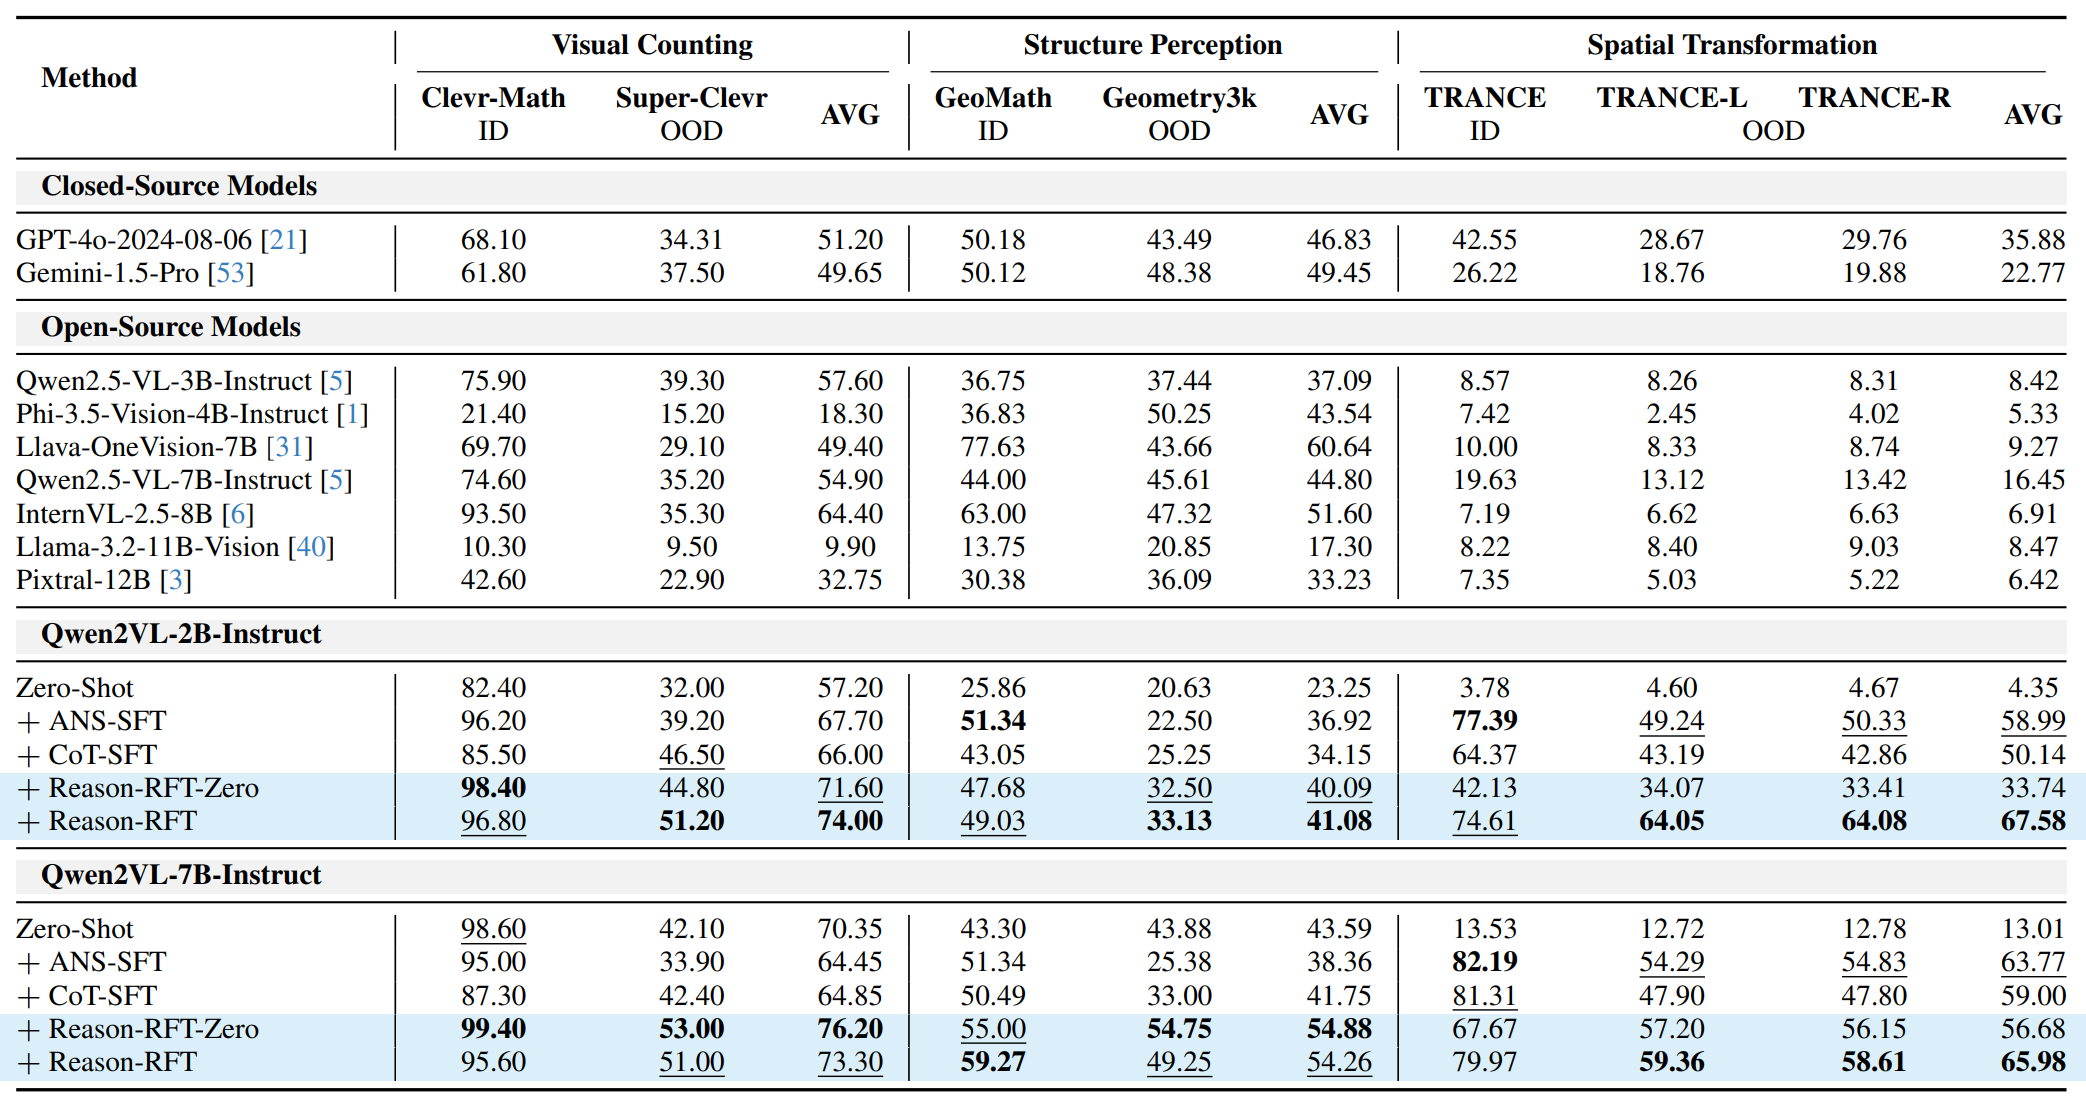
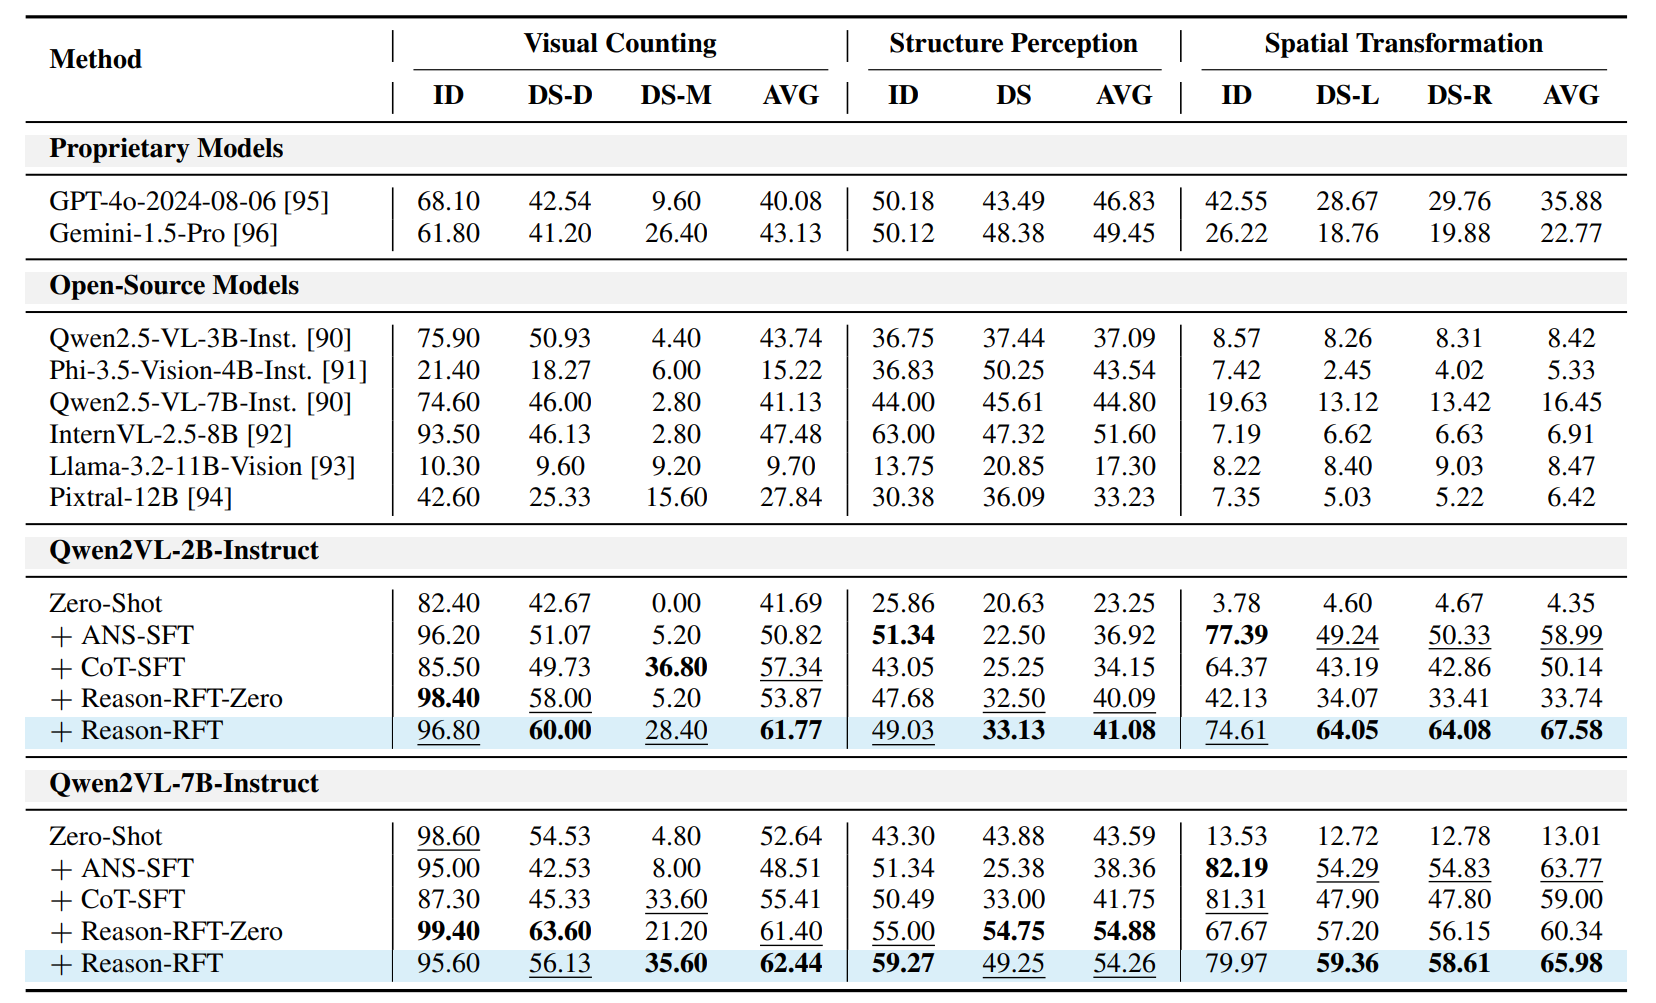
Update README.md

Changed region(s): [[0.0, 0.0, 1.0, 0.989]]

diff --git a/index.html b/index.html
@@ -4,7 +4,8 @@
 <head>
     <meta charset="utf-8">
     <title>Reason-RFT</title>
-    <meta name="description" content="Reason-RFT: Reinforcement Fine-Tuning for Visual Reasoning">
+    <meta name="description" content="Reason-RFT: Reinforcement Fine-Tuning for Visual Reasoning of Vision Language Models">
+    
     <meta name="viewport" content="width=device-width, initial-scale=1">
 
     <link href="https://fonts.googleapis.com/css?family=Google+Sans|Noto+Sans|Castoro" rel="stylesheet">
@@ -31,8 +32,13 @@
                 <div class="columns is-centered">
                     <div class="column has-text-centered">
                         <h1 class="title is-1 publication-title">
-                            Reason-RFT: Reinforcement Fine-Tuning for Visual Reasoning
+                            Reason-RFT: Reinforcement Fine-Tuning for Visual Reasoning of Vision Language Models
                         </h1>
+                        <h3 class="title is-4 conference-authors">
+                            <a target="_blank" href="https://neurips.cc/">
+                                NeurIPS 2025
+                            </a>
+                        </h3>
                         <div class="is-size-5 publication-authors">
                             <span class="author-block">
                                 <a target="_blank" href="https://github.com/tanhuajie/">Huajie Tan</a><sup>1,2,*</sup>,
@@ -44,13 +50,16 @@
                                 <a target="_blank" href="https://haoxiaoshuai.github.io/homepage/">Xiaoshuai Hao</a><sup>2,*,&dagger;</sup>,
                             </span>
                             <span class="author-block">
-                                <a target="_blank" href="https://github.com/MinglanLin">Minglan Lin</a><sup>2</sup>,
+                                <a target="_blank" href="https://github.com/MinglanLin">Xiansheng Chen</a><sup>2,*</sup>,
                             </span>
                             <span class="author-block">
                                 <a target="_blank" href="https://scholar.google.com/citations?&user=2xR6P5AAAAAJ">Pengwei Wang</a><sup>2,&dagger;</sup>,
                             </span>
                             <span class="author-block">
-                                <a target="_blank" href="https://www.shanghangzhang.com/">Shanghang Zhang</a><sup>1,2,&nbsp;<span style="font-family: serif;">✉</span></sup>
+                                <a target="_blank" href="http://www.wangzhongyuan.com/">Zhongyuan Wang</a><sup>2,&dagger;</sup>,
+                            </span>
+                            <span class="author-block">
+                                <a target="_blank" href="https://pku-hmi-lab.github.io/HMI-Web/leader.html">Shanghang Zhang</a><sup>1,2,&nbsp;<span style="font-family: serif;">✉</span></sup>
                             </span>
                         </div>
                         <div class="is-size-5 publication-authors">
@@ -105,7 +114,7 @@
 <div class="columns is-centered">
   <div class="container">
     <div class="content has-text-centered">
-      <h2 class="title is-3">RoadMap for Reason-RFT x RoboBrain</h2>
+      <h2 class="title is-3">New RoadMap for Reason-RFT x Embodied AI</h2>
       <p>Please refer to <a href="https://github.com/tanhuajie/Reason-RFT" target="_blank">Reason-RFT Github</a> for our full roadmap.</p>
       <div class="box m-5" >
         <div class="content has-text-centered">
